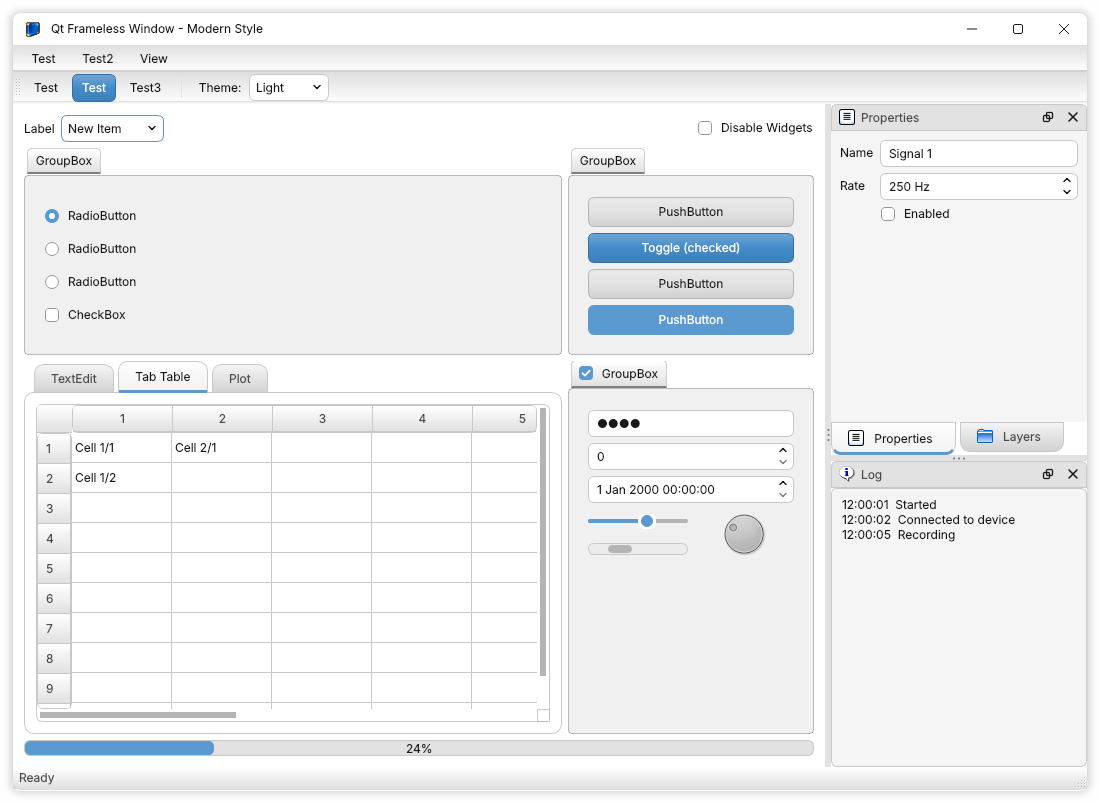
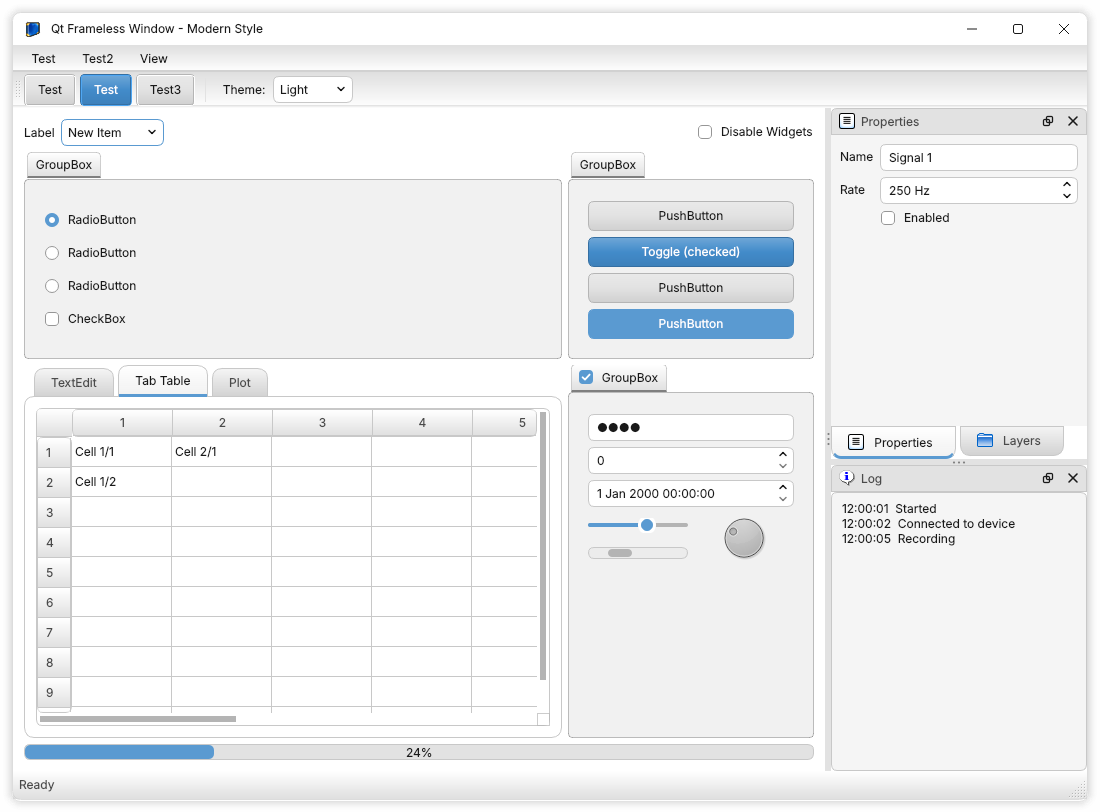
Take over the application style sheet's general rules
From the application's own sheet, the rules without an object name:
- QToolBar QToolButton: raised grey button with a 2 px groove edge,
  padding 5px 7px; hover the darker toolbar band (light theme: the darker
  button gradient, the band is too faint there); checked blue, darker on
  hover.
- QwtLegendLabel: the same button look; [checked="true"] bold and blue,
  [checked="false"] italic and thin. As "QwtLegend QwtLegendLabel" so it
  wins over the transparent legend rule.
- QPushButton padding 5px 20px; QStatusBar QWidget padding 3px;
  QListWidget::item margin-top 3px; QListView check box pressed image;
  QColorDialog spin box / colour field sizes.

Claude-Session: https://claude.ai/code/session_01Kn14e4JxntSWfujh7GdBDb

diff --git a/modernstyle/modernstyle.cpp b/modernstyle/modernstyle.cpp
@@ -239,6 +239,10 @@ QHash<QString, QString> themeFills(bool dark, const QHash<QString, QColor> &c)
     f["toolbarBottomFill"] = band("x1:0, y1:1, x2:0, y2:0");
     f["toolbarLeftFill"] = band("x1:0, y1:0, x2:1, y2:0");
     f["toolbarRightFill"] = band("x1:1, y1:0, x2:0, y2:0");
+    // Toolbar buttons and legend entries under the mouse: dark, the darker
+    // toolbar band (as the application's style sheet); light, whose band is
+    // too faint to see on a button, the darker button gradient
+    f["barButtonHoverFill"] = dark ? f["toolbarBottomFill"] : f["buttonHoverFill"];
     return f;
 }
 

diff --git a/README.md b/README.md
@@ -26,6 +26,7 @@ Version 2 of this fork brings the original [Qt-Frameless-Window-DarkStyle](https
 - Themes by name, e.g. for a settings dialog or a command-line option: `getThemeNames()` gives `"System", "Light", "Dark"`, `ModernStyle::themeFromName("dark")` the theme (any case; `Theme::Invalid` for an unknown name), `ModernStyle::themeName(theme)` the name back.
 - Checked buttons and tool buttons are blue (a `#428bca` gradient) and turn darker under the mouse; unchecked tool buttons light up under the mouse.
 - The selected tab has a blue line under it. Group boxes are lighter, see-through boxes with the title as a small tab on top, underlined in grey: the application's own group box style sheet, pixel for pixel.
+- Toolbar buttons are raised grey buttons with a groove edge, darker under the mouse and blue when checked; Qwt legend entries look the same (checked: bold and blue, unchecked: italic).
 - Toolbars, the menu bar, the status bar and table/tree headers share a see-through band, darker towards the window edge; toolbars have a 3 px edge towards the contents (top, bottom, left and right toolbars). Menu bar items glow grey under the mouse and turn the accent colour when opened.
 - Group boxes and tab pages are lighter, see-through areas, so nested ones stand out.
 - Menus: the accent colour on the item under the mouse, check boxes and radio buttons for checkable actions, a frame around the icon of a checked action. Tool tips have an accent border.
